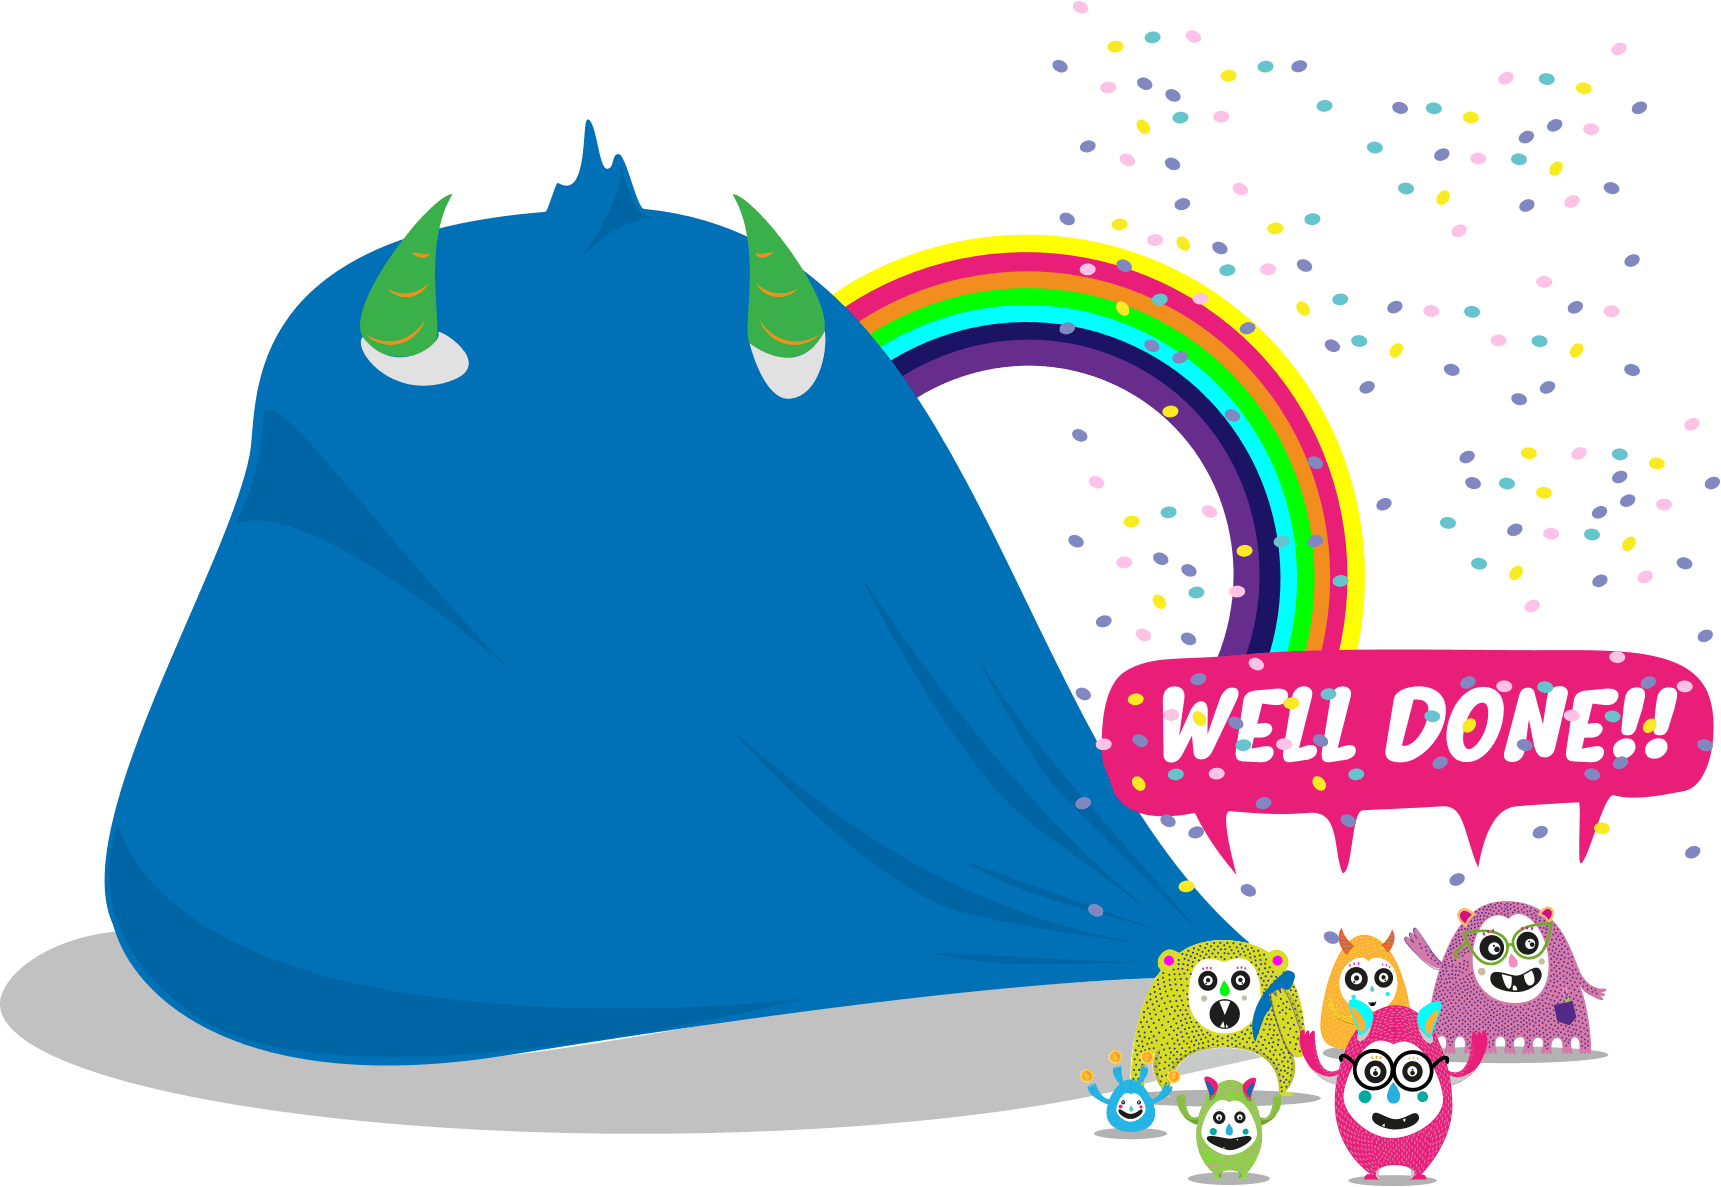
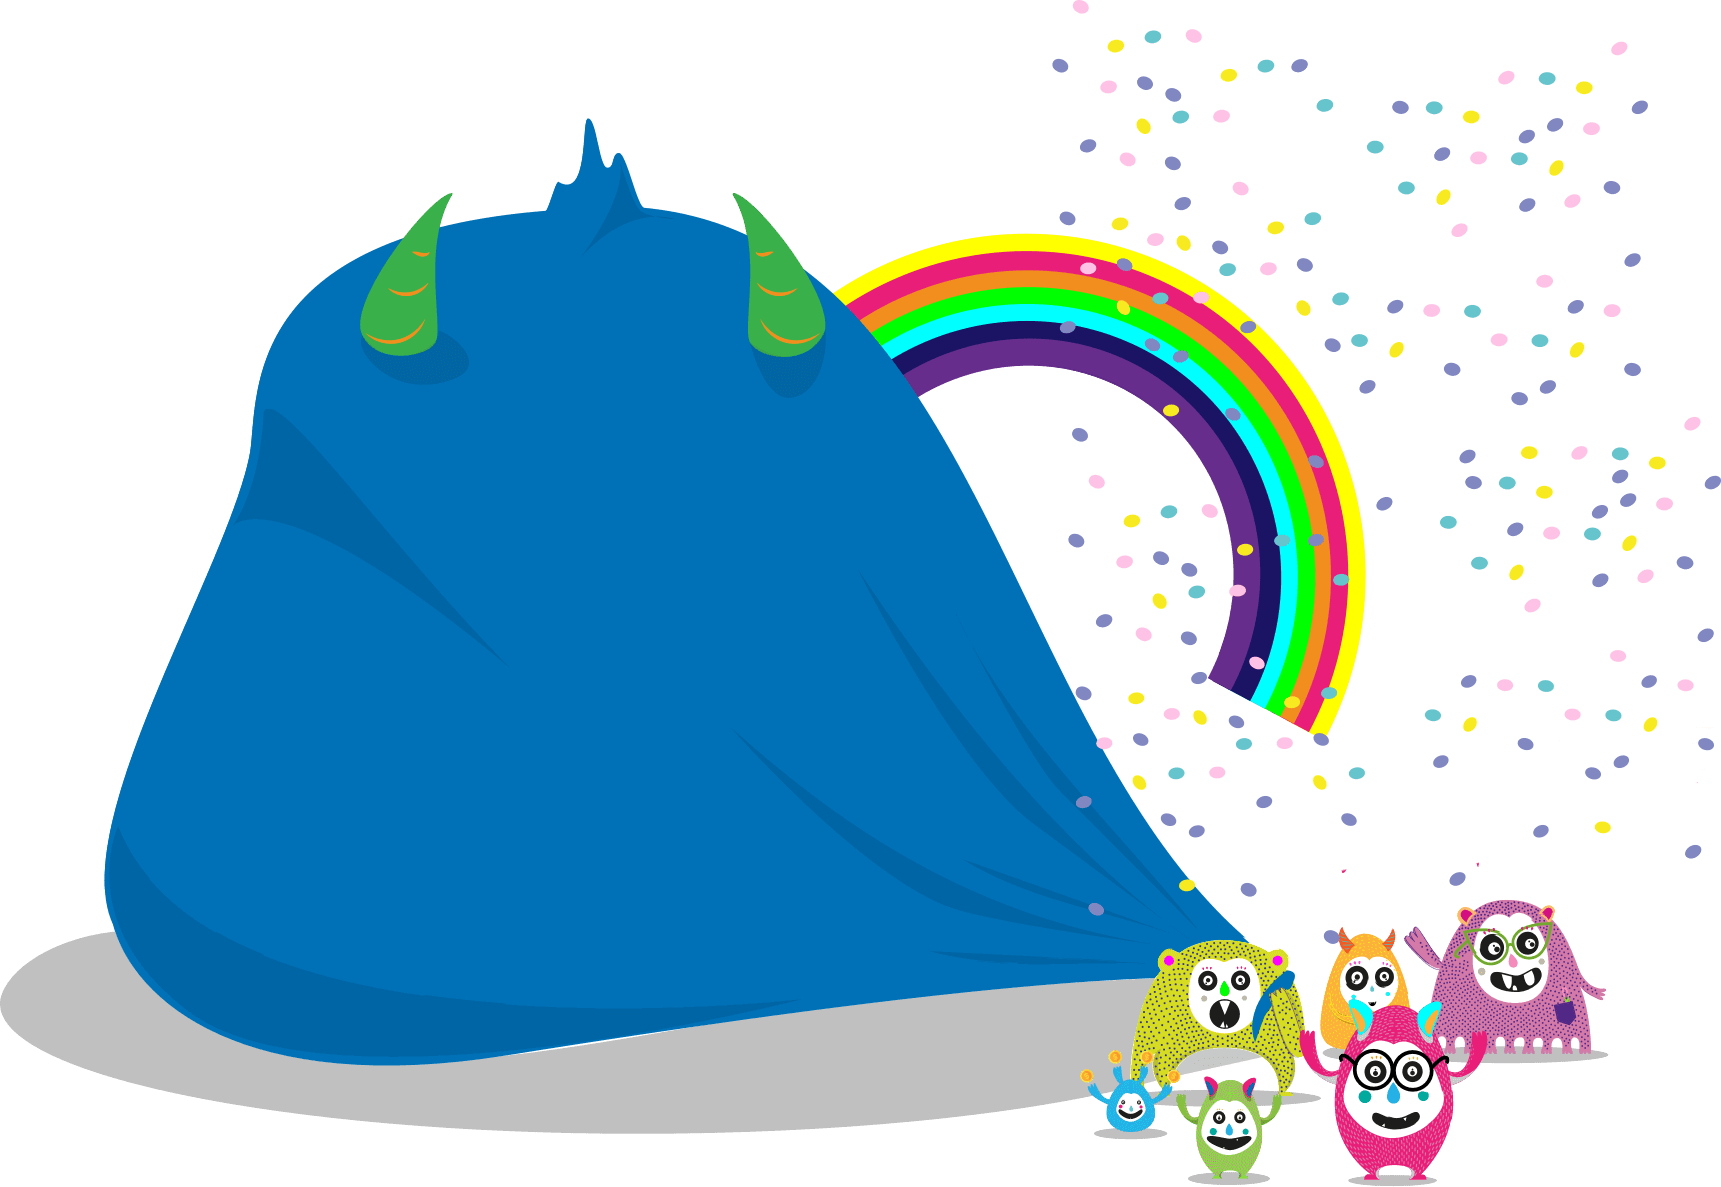
- Challenge Done Modifications WIP

diff --git a/style.js b/style.js
@@ -1054,7 +1054,6 @@ oxfordFlippedApp.config.awards = {
 }
 
 oxfordFlippedApp.bookData = '';
-oxfordFlippedApp.userActitivies = ''; // TEMP Not window.actividades in Challenge
 
 oxfordFlippedApp.text = {
 	text1: textweb('style_flipped_oxford'),
@@ -1144,7 +1143,8 @@ oxfordFlippedApp.text = {
 	premiumButton : 'Más recursos en Oxford Premium. ¡Accede ya!',
 	nomarketplaceresource: 'No hay ningún elemento que mostrar',
 	keepworking: 'Don’t worry, keep working to win stars!',
-	keeptrying : 'MUAHAHAHAHA!! I GOT YOU! Try again to win stars.'
+	keeptrying : 'MUAHAHAHAHA!! I GOT YOU! Try again to win stars.',
+	welldonechallenge : 'Well done!! Time to chill and play a game'
 }
 
 
@@ -1517,8 +1517,6 @@ oxfordFlippedApp.auxiliarButtonTeacher = function(data) {
 oxfordFlippedApp.homepage = function(data,updateHash) {
 
 	oxfordFlippedApp.console("Homepage");
-
-	oxfordFlippedApp.userActitivies = window.actividades; // TEMP Not window.actividades in Challenge
 
 	var currentIndex = 0;
 	var currentPage = oxfordFlippedApp.config.tree[currentIndex].id,
@@ -3071,7 +3069,7 @@ oxfordFlippedApp.activityFinalScreenTest = function(currentSection) {
 					if (isChallenge) {
 						var finalSlideBackground = $lastSlide.find('.image_slide').attr('src'),
 								customAnimation = '<i class="confetti"></i><i class="confetti"></i><i class="confetti"></i><i class="confetti"></i><i class="confetti"></i><i class="confetti"></i><i class="confetti"></i><i class="confetti"></i><i class="confetti"></i><i class="confetti"></i><i class="confetti"></i><i class="confetti"></i><i class="confetti"></i><i class="confetti"></i><i class="confetti"></i><i class="confetti"></i><i class="confetti"></i><i class="confetti"></i><i class="confetti"></i><i class="confetti"></i><i class="confetti"></i><i class="confetti"></i><i class="confetti"></i><i class="confetti"></i><i class="confetti"></i><i class="confetti"></i><i class="confetti"></i><i class="confetti"></i><i class="confetti"></i><i class="confetti"></i><i class="confetti"></i><i class="confetti"></i><i class="confetti"></i><i class="confetti"></i><i class="confetti"></i><i class="confetti"></i><i class="confetti"></i><i class="confetti"></i><i class="confetti"></i><i class="confetti"></i><i class="confetti"></i><i class="confetti"></i><i class="confetti"></i><i class="confetti"></i><i class="confetti"></i><i class="confetti"></i><i class="confetti"></i><i class="confetti"></i><i class="confetti"></i><i class="confetti"></i><i class="confetti"></i><i class="confetti"></i><i class="confetti"></i><i class="confetti"></i><i class="confetti"></i><i class="confetti"></i><i class="confetti"></i><i class="confetti"></i><i class="confetti"></i><i class="confetti"></i><i class="confetti"></i><i class="confetti"></i><i class="confetti"></i><i class="confetti"></i><i class="confetti"></i><i class="confetti"></i><i class="confetti"></i><i class="confetti"></i><i class="confetti"></i><i class="confetti"></i><i class="confetti"></i><i class="confetti"></i><i class="confetti"></i><i class="confetti"></i><i class="confetti"></i><i class="confetti"></i><i class="confetti"></i><i class="confetti"></i><i class="confetti"></i><i class="confetti"></i><i class="confetti"></i><i class="confetti"></i><i class="confetti"></i><i class="confetti"></i><i class="confetti"></i><i class="confetti"></i><i class="confetti"></i><i class="confetti"></i><i class="confetti"></i><i class="confetti"></i><i class="confetti"></i><i class="confetti"></i><i class="confetti"></i><i class="confetti"></i><i class="confetti"></i><i class="confetti"></i><i class="confetti"></i><i class="confetti"></i><i class="confetti"></i><i class="confetti"></i><i class="confetti"></i><i class="confetti"></i><i class="confetti"></i><i class="confetti"></i><i class="confetti"></i><i class="confetti"></i><i class="confetti"></i><i class="confetti"></i><i class="confetti"></i><i class="confetti"></i><i class="confetti"></i><i class="confetti"></i><i class="confetti"></i><i class="confetti"></i><i class="confetti"></i><i class="confetti"></i><i class="confetti"></i><i class="confetti"></i><i class="confetti"></i><i class="confetti"></i><i class="confetti"></i><i class="confetti"></i><i class="confetti"></i><i class="confetti"></i><i class="confetti"></i><i class="confetti"></i><i class="confetti"></i><i class="confetti"></i><i class="confetti"></i><i class="confetti"></i><i class="confetti"></i><i class="confetti"></i><i class="confetti"></i><i class="confetti"></i><i class="confetti"></i><i class="confetti"></i><i class="confetti"></i><i class="confetti"></i><i class="confetti"></i><i class="confetti"></i><i class="confetti"></i><i class="confetti"></i><i class="confetti"></i><i class="confetti"></i><i class="confetti"></i><i class="confetti"></i><i class="confetti"></i><i class="confetti"></i><i class="confetti"></i><i class="confetti"></i>',
-								finalSlideContent = '<div id="oxfl-final-slide">'+customAnimation+'<div class="oxfl-final-slide-stars" id="oxfl-final-slide-stars"></div><div class="oxfl-coins-bubble-2"><div class="oxfl-coins-bubble-2-coins" id="oxfl-total-coins-2"></div></div><button class="oxfl-button-bubble oxfl-button-bubble-3 oxfl-js-close-iframe-inside">'+oxfordFlippedApp.text.exit+'</button></div>';
+								finalSlideContent = '<div id="oxfl-final-slide">'+customAnimation+'<div class="oxfl-final-slide-stars" id="oxfl-final-slide-stars"></div><div class="oxfl-coins-bubble-2"><div class="oxfl-coins-bubble-2-coins" id="oxfl-total-coins-2"></div></div><div class="oxfl-bubble-challenge-ok"><span>' + oxfordFlippedApp.text.welldonechallenge + '</span></div><button class="oxfl-button-bubble oxfl-button-bubble-3 oxfl-js-close-iframe-inside">'+oxfordFlippedApp.text.exit+'</button></div>';
 						if (finalSlideBackground != '') {
 							$lastSlide.css('background-image', 'url('+finalSlideBackground+')').find('.slide_aux').hide();
 						}
@@ -3502,9 +3500,6 @@ $(document).ready(function() {
 		if (oxfordFlippedApp.config.isStudent) {
 			oxfordFlippedApp.loadNotifications(oxfordFlippedApp.bookData);
 		}
-
-		// TEMP Not window.actividades in Challenge
-		oxfordFlippedApp.userActitivies = window.actividades;
 
 	}));
 

diff --git a/scss/pages/_activities_final_2_test.scss b/scss/pages/_activities_final_2_test.scss
@@ -36,6 +36,7 @@ body.body_clase.view-mode {
           }
         }
       }
+
       .item-container  {
         max-width: 100%;
         min-height: 100%!important;
@@ -173,6 +174,31 @@ body.body_clase.view-mode {
       }
     }
 
+    .oxfl-bubble-challenge-ok {
+      max-width: 300px;
+      width: auto;
+      height: auto;
+      background: $color_4;
+      background-size: auto;
+      color: $negative_color;
+      display: inline-flex;
+      text-align: left;
+      align-items: center;
+      vertical-align: middle;
+      justify-content: center;
+      flex-direction: column;
+      font-family: $font_family_1;
+      font-weight: bold;
+      font-size: italic;
+      font-size: 26px;
+      line-height: 1em;
+      padding: 20px;
+      border-radius: 40px;
+      position: absolute;
+      top: 50%;
+      left: 50%;
+    }
+
   }
 
   &.oxfl-final-slide-on {
@@ -224,7 +250,7 @@ body.body_clase.view-mode {
     content: '';
     display: block;
     position: absolute;
-    bottom: -9px; // TODO CAMBIAR CUANDO SE ACTUALICE EL MONSTRUo
+    bottom: -9px;
     right: 0;
     background: url(img/monster-tip.svg) right bottom no-repeat;
     background-size: contain;
@@ -259,12 +285,12 @@ body.body_clase.view-mode {
   .oxfl-final-slide-challenge & {
     top: 50%;
     margin-top: -40px;
-    background-image: url(img/final-2-coins-b.png);
+    background-image: url(img/coins.png);
     width: 215px;
     height: 70px;
     margin-left: 41vh;
     .oxfl-coins-bubble-2-coins {
-      top: 20px;
+      top: 10px;
     }
   }
 }

diff --git a/style.css b/style.css
@@ -3770,6 +3770,29 @@ body.body_clase.view-mode #actividad .oxfl-bubble-challenge-fail {
     left: 120px;
     transform: rotate(-135deg);
     transform-origin: 0 0; }
+body.body_clase.view-mode #actividad .oxfl-bubble-challenge-ok {
+  max-width: 300px;
+  width: auto;
+  height: auto;
+  background: #ED1E79;
+  background-size: auto;
+  color: #ffffff;
+  display: inline-flex;
+  text-align: left;
+  align-items: center;
+  vertical-align: middle;
+  justify-content: center;
+  flex-direction: column;
+  font-family: "Quicksand", sans-serif;
+  font-weight: bold;
+  font-size: italic;
+  font-size: 26px;
+  line-height: 1em;
+  padding: 20px;
+  border-radius: 40px;
+  position: absolute;
+  top: 50%;
+  left: 50%; }
 body.body_clase.view-mode.oxfl-final-slide-on .content-wrapper {
   padding-top: 0;
   padding-bottom: 0; }
@@ -3856,12 +3879,12 @@ body.body_clase.view-mode.oxfl-end-screen-tip-on .slider-control:not(.oxfl-slide
   .oxfl-final-slide-challenge .oxfl-coins-bubble-2 {
     top: 50%;
     margin-top: -40px;
-    background-image: url(img/final-2-coins-b.png);
+    background-image: url(img/coins.png);
     width: 215px;
     height: 70px;
     margin-left: 41vh; }
     .oxfl-final-slide-challenge .oxfl-coins-bubble-2 .oxfl-coins-bubble-2-coins {
-      top: 20px; }
+      top: 10px; }
 
 .oxfl-final-slide-stars {
   position: absolute;
